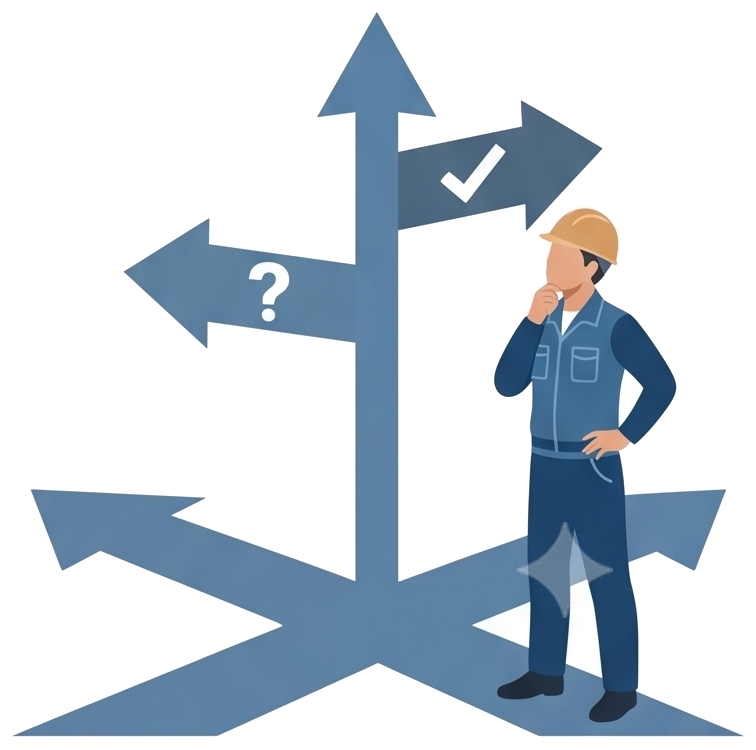
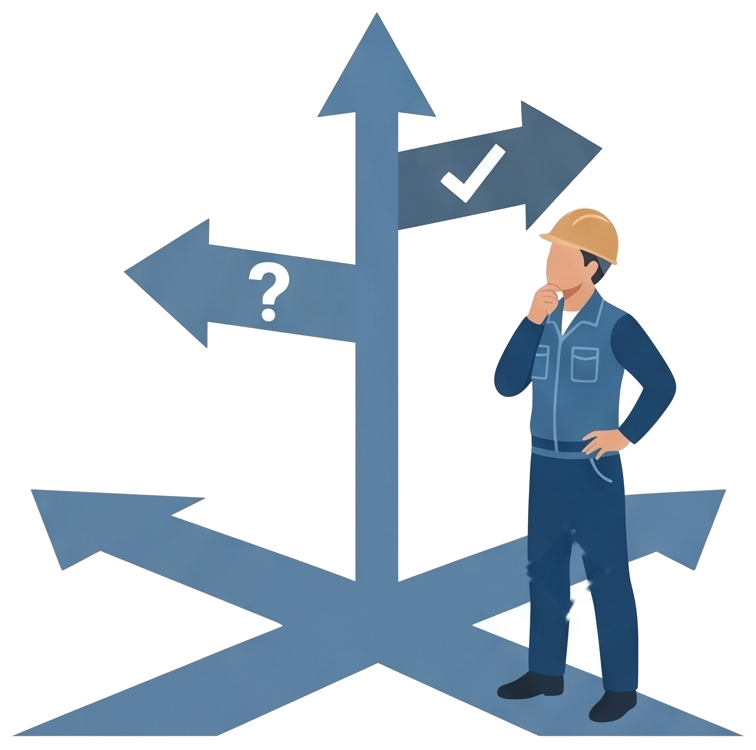
タイ 人・組織マネジメント講座 JA：申込フォーム公開・ボタンを「受講申し込み」に統一、メール申込追加、イラスト差し替え、分かれ道イラストの透かし除去
Claude-Session: https://claude.ai/code/session_01SpWZvXgkwG21DrLjWGbDtJ

Changed region(s): [[0.6693, 0.7053, 0.8214, 0.828]]

diff --git a/2026/thailand/training/management-essential/ja/index.html b/2026/thailand/training/management-essential/ja/index.html
@@ -15,7 +15,7 @@
     <link rel="icon" href="/assets/logos/symbol.svg" type="image/svg+xml">
     <link href="https://fonts.googleapis.com/css2?family=Noto+Sans+JP:wght@400;500;700;900&display=swap" rel="stylesheet">
     <!-- LP Config: 日程・料金・フォームURL等の変更はこのファイルを編集してください -->
-    <script src="../config_ja.js?v=20260923"></script>
+    <script src="../config_ja.js?v=20260929"></script>
     <style>
         /* =========================================
            Variables & Theme Settings
@@ -1404,7 +1404,7 @@
                     <span class="time">受付時間：平日 9:00〜18:00（シンガポール時間）</span>
                 </div>
                 <div class="header-buttons">
-                    <a href="#contact" class="btn-entry-header">お問い合わせ・先行案内</a>
+                    <a href="https://docs.google.com/forms/d/e/1FAIpQLScytGO-oMZk55iRuZElI5PICs89a6eSsmoJdaQi3e7tQP9Aqg/viewform" target="_blank" rel="noopener" class="btn-entry-header">受講申し込み</a>
                 </div>
                 <button class="hamburger-btn" id="hamburger-btn" aria-label="メニューを開く">
                     <span></span><span></span><span></span>
@@ -1412,7 +1412,7 @@
             </div>
         </div>
         <div class="header-btn-bar">
-            <a href="#contact" class="btn-bar-entry">お問い合わせ・先行案内のお申し込み</a>
+            <a href="https://docs.google.com/forms/d/e/1FAIpQLScytGO-oMZk55iRuZElI5PICs89a6eSsmoJdaQi3e7tQP9Aqg/viewform" target="_blank" rel="noopener" class="btn-bar-entry">受講申し込み</a>
         </div>
         <nav class="header-bottom" id="mobile-nav">
             <div class="container nav-container">
@@ -1447,7 +1447,7 @@
                     <div class="hero-fact"><span class="k">SCHEDULE</span><span class="v">2026年11月12日開始<br>定員15名</span></div>
                     <div class="hero-fact fact-fee"><span class="k">TUITION</span><span class="v">SGD 700<span class="sub">1名・全3回／参考 約 THB 18,300</span></span></div>
                 </div>
-                <a href="#contact" class="btn-cta">お問い合わせ・先行案内のお申し込み</a>
+                <a href="https://docs.google.com/forms/d/e/1FAIpQLScytGO-oMZk55iRuZElI5PICs89a6eSsmoJdaQi3e7tQP9Aqg/viewform" target="_blank" rel="noopener" class="btn-cta">受講申し込み</a>
             </div>
 
             <div class="hero-visual-content reveal-right">
@@ -1473,7 +1473,7 @@
                 <span class="en">Purpose</span>
                 目的は、あなたが変わることではありません。<br>組織が、自ら動くようになることです。
             </h2>
-            <div class="sec-ill reveal delay-100"><img src="/assets/illustrations/il_feedback_and_growth.png" alt="自ら育つ組織" loading="lazy"></div>
+            <div class="sec-ill reveal delay-100"><img src="/assets/illustrations/il_m_team_discussion.png" alt="自ら考え、動くチーム" loading="lazy"></div>
 
             <div class="purpose-stack reveal delay-100">
                 <div class="purpose-tier t3">
@@ -1693,7 +1693,7 @@
         <div class="container">
             <div class="cta-banner-inner reveal">
                 <h2>限られた任期の中で、<br>チームの自律化に着手しませんか</h2>
-                <a href="#contact" class="btn-cta">お問い合わせ・先行案内のお申し込み</a>
+                <a href="https://docs.google.com/forms/d/e/1FAIpQLScytGO-oMZk55iRuZElI5PICs89a6eSsmoJdaQi3e7tQP9Aqg/viewform" target="_blank" rel="noopener" class="btn-cta">受講申し込み</a>
             </div>
         </div>
     </div>
@@ -1789,7 +1789,7 @@
                 <span class="en">Positioning</span>
                 なぜ「エッセンシャル編」なのか
             </h2>
-            <div class="sec-ill reveal delay-100"><img src="/assets/illustrations/il_decision_crossroads.png" alt="最初に押さえるべきエッセンス" loading="lazy"></div>
+            <div class="sec-ill reveal delay-100"><img src="/assets/illustrations/il_decision_crossroads.png?v=20260929" alt="最初に押さえるべきエッセンス" loading="lazy"></div>
             <p class="reveal delay-100" style="text-align: center; color: var(--text-muted); font-size: 1rem; max-width: 820px; margin: 0 auto; line-height: 1.95;">
                 現地でのマネジメントは、3回で語り尽くせるものではありません。本講座は、日本人マネジメント層が現地で最初に押さえるべきエッセンスを、全3回に凝縮したものです。<span class="mk">「まず、これだけは外してはいけない」</span>という範囲を、知識ではなく実践のレベルまで持っていくことを目的としています。
             </p>
@@ -2030,7 +2030,7 @@
                 <span class="en">Practice Format</span>
                 学ぶだけでは終わりません。<br>変化の兆しをつかむところまで。
             </h2>
-            <div class="sec-ill dark reveal delay-100"><img src="/assets/illustrations/il_m_team_discussion.png" alt="学びを職場で実践する" loading="lazy"></div>
+            <div class="sec-ill dark reveal delay-100"><img src="/assets/illustrations/il_m_dialogue_meeting2.png" alt="学びを職場で実践する" loading="lazy"></div>
             <p class="reveal" style="text-align: center; color: rgba(255,255,255,.8); font-size: 1rem; line-height: 1.9;">
                 本講座の特徴は、3回の講義を受けて終わることではありません。<br>
                 各回の間に、実際の職場で、実在する部下に対して実践します。
@@ -2269,9 +2269,9 @@
             </p>
 
             <div class="tbd-box reveal delay-200" style="margin-top:26px;">
-                <b>お申し込みフォームは準備中です</b>
-                <p style="margin-bottom:16px">お申し込みフォームの公開までは、Eメールにて受け付けております。下記ボタンからお問い合わせ・お申し込みください。</p>
-                <a href="#contact" class="btn-cta">お問い合わせ・先行案内のお申し込み</a>
+                <b>お申し込み受付中</b>
+                <p style="margin-bottom:16px">申込締切は2026年10月29日（木）です。1名からお申し込みいただけます。</p>
+                <a href="https://docs.google.com/forms/d/e/1FAIpQLScytGO-oMZk55iRuZElI5PICs89a6eSsmoJdaQi3e7tQP9Aqg/viewform" target="_blank" rel="noopener" class="btn-cta">受講申し込み</a>
             </div>
         </div>
     </section>
@@ -2416,7 +2416,7 @@
                 </details>
                 <details class="faq-item">
                     <summary class="faq-q">Q 開催日程はいつですか／問い合わせ先はどこですか？</summary>
-                    <div class="faq-a">確定しています。2026年11月12日（木）・11月26日（木）・12月8日（火）、いずれも14:00〜17:00（タイ時間）の全3回です。申込締切は2026年10月29日（木）です。お申し込みフォームは準備中のため、当面はEメールにて受け付けております。
+                    <div class="faq-a">確定しています。2026年11月12日（木）・11月26日（木）・12月8日（火）、いずれも14:00〜17:00（タイ時間）の全3回です。申込締切は2026年10月29日（木）です。お申し込みは、本ページの「受講申し込み」ボタンからお願いいたします。
 【問い合わせ】support@ws-partners.com.sg</div>
                 </details>
             </div>
@@ -2500,14 +2500,14 @@
         <div class="container">
             <h2 class="sec-title reveal">
                 <span class="en">Contact</span>
-                開催のご案内・お問い合わせ
+                お申し込み・お問い合わせ
             </h2>
 
             <div class="reveal delay-100" style="max-width: 760px; margin: 0 auto;">
                 <div class="tbd-box" style="margin-bottom: 28px;">
-                    <b>お申し込みフォームは準備中です</b>
-                    <p style="margin-bottom:16px">お申し込みフォームの公開までは、Eメールにて受け付けております。下記ボタンを押すと、必要事項の入力欄があらかじめ入ったメールが立ち上がります。ご記入のうえ送信してください。</p>
-                    <a href="mailto:support@ws-partners.com.sg?cc=wsp-sales%40ws-partners.com.sg%3Bkantaya%40ws-partners.com.sg%3Bkhia%40ws-partners.com.sg&subject=%E3%80%90%E3%81%8A%E5%95%8F%E3%81%84%E5%90%88%E3%82%8F%E3%81%9B%E3%80%91%E4%BA%BA%E3%83%BB%E7%B5%84%E7%B9%94%E3%83%9E%E3%83%8D%E3%82%B8%E3%83%A1%E3%83%B3%E3%83%88%E8%AC%9B%E5%BA%A7%20%E3%82%A8%E3%83%83%E3%82%BB%E3%83%B3%E3%82%B7%E3%83%A3%E3%83%AB%E7%B7%A8%EF%BC%88%E3%82%BF%E3%82%A4%E3%83%BB%E5%85%A83%E5%9B%9E%EF%BC%89&body=%E2%96%BC%E4%BB%A5%E4%B8%8B%E3%81%AE%E9%A0%85%E7%9B%AE%E3%82%92%E3%81%94%E8%A8%98%E5%85%A5%E3%81%AE%E3%81%86%E3%81%88%E3%80%81%E3%81%93%E3%81%AE%E3%83%A1%E3%83%BC%E3%83%AB%E3%82%92%E9%80%81%E4%BF%A1%E3%81%97%E3%81%A6%E3%81%8F%E3%81%A0%E3%81%95%E3%81%84%E3%80%82%0A%E2%80%BB%E3%81%AF%E5%BF%85%E9%A0%88%E9%A0%85%E7%9B%AE%E3%81%A7%E3%81%99%E3%80%82%0A--------------------%0A%E8%B2%B4%E7%A4%BE%E5%90%8D%20%E2%80%BB%EF%BC%9A%0A%0A%E7%8F%BE%E5%9C%B0%E6%B3%95%E4%BA%BA%E3%81%AE%E5%BE%93%E6%A5%AD%E5%93%A1%E6%95%B0%20%E2%80%BB%EF%BC%9A%0A%E3%80%80%E2%96%A1%201%E3%80%9C10%E5%90%8D%0A%E3%80%80%E2%96%A1%2011%E3%80%9C30%E5%90%8D%0A%E3%80%80%E2%96%A1%2031%E3%80%9C100%E5%90%8D%0A%E3%80%80%E2%96%A1%20101%E3%80%9C200%E5%90%8D%0A%E3%80%80%E2%96%A1%20201%E3%80%9C500%E5%90%8D%0A%E3%80%80%E2%96%A1%20501%E3%80%9C1%2C000%E5%90%8D%0A%E3%80%80%E2%96%A1%201%2C001%E5%90%8D%E4%BB%A5%E4%B8%8A%0A%0A%E3%81%8A%E5%90%8D%E5%89%8D%20%E2%80%BB%EF%BC%9A%0A%0A%E6%89%80%E5%B1%9E%E9%83%A8%E7%BD%B2%20%E2%80%BB%EF%BC%9A%0A%0A%E5%BD%B9%E8%81%B7%20%E2%80%BB%EF%BC%9A%0A%0A%E9%9B%BB%E8%A9%B1%E7%95%AA%E5%8F%B7%20%E2%80%BB%EF%BC%9A%0A%E3%80%80%E2%80%BB%E3%83%8F%E3%82%A4%E3%83%95%E3%83%B3%E3%82%92%E5%85%A5%E3%82%8C%E3%81%9A%E6%95%B0%E5%AD%97%E3%81%A0%E3%81%91%E3%81%94%E8%A8%98%E5%85%A5%E3%81%8F%E3%81%A0%E3%81%95%E3%81%84%0A%0AE%E3%83%A1%E3%83%BC%E3%83%AB%20%E2%80%BB%EF%BC%9A%0A%0A%E3%81%94%E8%B5%B4%E4%BB%BB%E3%81%8B%E3%82%89%E3%81%AE%E5%B9%B4%E6%95%B0%20%E2%80%BB%EF%BC%9A%0A%E3%80%80%E2%96%A1%20%E7%9D%80%E4%BB%BB%E5%89%8D%E3%83%BB%E7%9D%80%E4%BB%BB%E7%9B%B4%E5%BE%8C%0A%E3%80%80%E2%96%A1%201%E5%B9%B4%E6%9C%AA%E6%BA%80%0A%E3%80%80%E2%96%A1%201%E3%80%9C3%E5%B9%B4%0A%E3%80%80%E2%96%A1%203%E5%B9%B4%E4%BB%A5%E4%B8%8A%0A%E3%80%80%E2%96%A1%20%E7%8F%BE%E5%9C%B0%E6%8E%A1%E7%94%A8%E3%81%AE%E6%97%A5%E6%9C%AC%E4%BA%BA%E7%A4%BE%E5%93%A1%0A%0A%E9%83%A8%E4%B8%8B%EF%BC%88%E7%8F%BE%E5%9C%B0%E7%A4%BE%E5%93%A1%EF%BC%89%E3%81%AE%E4%BA%BA%E6%95%B0%20%E2%80%BB%EF%BC%9A%0A%E3%80%80%E2%96%A1%201%E3%80%9C3%E5%90%8D%0A%E3%80%80%E2%96%A1%204%E3%80%9C10%E5%90%8D%0A%E3%80%80%E2%96%A1%2011%E5%90%8D%E4%BB%A5%E4%B8%8A%0A%0A%E3%81%94%E7%94%A8%E4%BB%B6%20%E2%80%BB%EF%BC%9A%0A%E3%80%80%E2%96%A1%20%E5%85%88%E8%A1%8C%E6%A1%88%E5%86%85%E3%83%BB%E8%A9%B3%E7%B4%B0%E8%B3%87%E6%96%99%E3%82%92%E5%B8%8C%E6%9C%9B%E3%81%99%E3%82%8B%0A%E3%80%80%E2%96%A1%20%E5%8F%97%E8%AC%9B%E3%82%92%E7%94%B3%E3%81%97%E8%BE%BC%E3%81%BF%E3%81%9F%E3%81%84%0A%E3%80%80%E2%96%A1%20%E5%80%8B%E7%A4%BE%E5%88%A5%EF%BC%88%E8%87%AA%E7%A4%BE%E3%81%AE%E3%81%BF%EF%BC%89%E3%81%A7%E3%81%AE%E5%AE%9F%E6%96%BD%E3%82%92%E7%9B%B8%E8%AB%87%E3%81%97%E3%81%9F%E3%81%84%0A%E3%80%80%E2%96%A1%20%E3%81%9D%E3%81%AE%E4%BB%96%EF%BC%9A%0A%0A%E6%9C%AC%E8%AC%9B%E5%BA%A7%E3%81%AB%E3%81%A4%E3%81%84%E3%81%A6%E3%81%A9%E3%81%93%E3%81%A7%E7%9F%A5%E3%82%8A%E3%81%BE%E3%81%97%E3%81%9F%E3%81%8B%3F%20%E2%80%BB%EF%BC%9A%0A%E3%80%80%E2%96%A1%20WS%20PARTNERS%E3%81%8B%E3%82%89%E3%81%AEE%E3%83%A1%E3%83%BC%E3%83%AB%0A%E3%80%80%E2%96%A1%20%E9%80%B1%E5%88%8AWISE%0A%E3%80%80%E2%96%A1%20%E3%83%91%E3%83%BC%E3%82%BD%E3%83%8D%E3%83%AB%E3%82%B3%E3%83%B3%E3%82%B5%E3%83%AB%E3%82%BF%E3%83%B3%E3%83%88%0A%E3%80%80%E2%96%A1%20NNA%0A%E3%80%80%E2%96%A1%20Google%E3%81%AA%E3%81%A9%E3%81%AE%E6%A4%9C%E7%B4%A2%E3%82%A8%E3%83%B3%E3%82%B8%E3%83%B3%0A%E3%80%80%E2%96%A1%20%E7%A4%BE%E5%A4%96%E3%81%AE%E5%88%A5%E3%81%AE%E6%96%B9%E3%81%8B%E3%82%89%E3%81%AE%E6%A1%88%E5%86%85%E3%83%BB%E7%B4%B9%E4%BB%8B%0A%E3%80%80%E2%96%A1%20%E3%81%9D%E3%81%AE%E4%BB%96%EF%BC%9A%0A%0A%E3%82%AD%E3%83%A3%E3%83%B3%E3%82%BB%E3%83%AB%E8%A6%8F%E5%AE%9A%E3%81%B8%E3%81%AE%E5%90%8C%E6%84%8F%20%E2%80%BB%EF%BC%9A%0A%E3%80%80%E2%96%A1%20%E5%90%8C%E6%84%8F%E3%81%97%E3%81%BE%E3%81%99%0A%0A%E3%80%90%E3%81%8A%E7%9F%A5%E3%82%89%E3%81%9B%E9%85%8D%E4%BF%A1%E3%81%AB%E3%81%A4%E3%81%84%E3%81%A6%E3%80%91%0A%E3%80%80%E4%B8%8D%E8%A6%81%E3%81%AE%E5%A0%B4%E5%90%88%E3%81%AE%E3%81%BF%E3%80%8C%E4%B8%8D%E8%A6%81%E3%80%8D%E3%81%A8%E3%81%94%E8%A8%98%E5%85%A5%E3%81%8F%E3%81%A0%E3%81%95%E3%81%84%EF%BC%9A%0A%0A--------------------" class="btn-cta" style="font-size: 1rem;">メールで問い合わせる・申し込む</a>
+                    <b>お申し込み受付中</b>
+                    <p style="margin-bottom:16px">下記ボタンよりお申し込みフォームへお進みください。フォームが開けない場合は、このページ下部の「メールで申し込む」もご利用いただけます。</p>
+                    <a href="https://docs.google.com/forms/d/e/1FAIpQLScytGO-oMZk55iRuZElI5PICs89a6eSsmoJdaQi3e7tQP9Aqg/viewform" target="_blank" rel="noopener" class="btn-cta">受講申し込み</a>
                 </div>
 
                 <div class="info-box">
@@ -2521,6 +2521,9 @@
                         </ul>
                     </div>
                     <p style="font-size: 0.9rem; margin-top: 15px;">個社別（貴社のみ）での実施のご相談についても承ります。</p>
+                    <p style="text-align:center; margin-top: 22px;">
+                        <a href="mailto:support@ws-partners.com.sg?cc=wsp-sales@ws-partners.com.sg%3Bkantaya@ws-partners.com.sg%3Bkhia@ws-partners.com.sg&subject=%E3%81%8A%E7%94%B3%E3%81%97%E8%BE%BC%E3%81%BF%20-%20%E3%80%90%E3%80%8E%E4%BA%BA%E3%83%BB%E7%B5%84%E7%B9%94%E3%83%9E%E3%83%8D%E3%82%B8%E3%83%A1%E3%83%B3%E3%83%88%E8%AC%9B%E5%BA%A7%20%E3%82%A8%E3%83%83%E3%82%BB%E3%83%B3%E3%82%B7%E3%83%A3%E3%83%AB%E7%B7%A8%E3%80%8F%E3%82%BB%E3%83%9F%E3%83%8A%E3%83%BC%EF%BC%8F%E7%A0%94%E4%BF%AE%20%EF%BC%88%E3%82%BF%E3%82%A4%EF%BC%89(2026.11)%E3%80%91&body=%E2%96%BC%E4%BB%A5%E4%B8%8B%E3%81%AE%E9%A0%85%E7%9B%AE%E3%82%92%E3%81%94%E8%A8%98%E5%85%A5%E3%81%AE%E4%B8%8A%E3%80%81%E3%81%93%E3%81%AE%E3%83%A1%E3%83%BC%E3%83%AB%E3%82%92%E9%80%81%E4%BF%A1%E3%81%97%E3%81%A6%E3%81%8F%E3%81%A0%E3%81%95%E3%81%84%E3%80%82%0A%E2%80%BB%E3%81%AF%E5%BF%85%E9%A0%88%E9%A0%85%E7%9B%AE%E3%81%A7%E3%81%99%E3%80%82%0A--------------------%0A%E4%BC%9A%E7%A4%BE%E5%90%8D%20%E2%80%BB%EF%BC%9A%0A%0A%E7%8F%BE%E5%9C%B0%E6%B3%95%E4%BA%BA%E3%81%AE%E5%BE%93%E6%A5%AD%E5%93%A1%E6%95%B0%20%E2%80%BB%EF%BC%9A%0A%E3%80%80%E2%96%A1%201%EF%BD%9E10%E5%90%8D%0A%E3%80%80%E2%96%A1%2011%EF%BD%9E30%E5%90%8D%0A%E3%80%80%E2%96%A1%2031%EF%BD%9E100%E5%90%8D%0A%E3%80%80%E2%96%A1%20101%EF%BD%9E200%E5%90%8D%0A%E3%80%80%E2%96%A1%20201%EF%BD%9E500%E5%90%8D%0A%E3%80%80%E2%96%A1%20501%EF%BD%9E1000%E5%90%8D%0A%E3%80%80%E2%96%A1%201001%E5%90%8D%E4%BB%A5%E4%B8%8A%0A%0A%E5%8F%97%E8%AC%9B%E8%80%85%E3%81%AE%E3%81%8A%E5%90%8D%E5%89%8D%20%E2%80%BB%EF%BC%9A%0A%0A%E5%8F%97%E8%AC%9B%E8%80%85%E3%81%AE%E6%89%80%E5%B1%9E%E9%83%A8%E7%BD%B2%20%E2%80%BB%EF%BC%9A%0A%0A%E5%8F%97%E8%AC%9B%E8%80%85%E3%81%AE%E5%BD%B9%E8%81%B7%20%E2%80%BB%EF%BC%9A%0A%E3%80%80%E2%96%A1%20Managing%20Director%EF%BC%88%E7%8F%BE%E5%9C%B0%E6%B3%95%E4%BA%BA%E7%A4%BE%E9%95%B7%EF%BC%89%0A%E3%80%80%E2%96%A1%20Director%EF%BC%88%E5%8F%96%E7%B7%A0%E5%BD%B9%E3%82%AF%E3%83%A9%E3%82%B9%EF%BC%89%0A%E3%80%80%E2%96%A1%20General%20Manager%EF%BC%88%E9%83%A8%E9%95%B7%E3%82%AF%E3%83%A9%E3%82%B9%EF%BC%89%0A%E3%80%80%E2%96%A1%20Senior%20Manager%EF%BC%88%E6%AC%A1%E9%95%B7%E3%83%BB%E9%83%A8%E9%96%80%E8%B2%AC%E4%BB%BB%E8%80%85%E3%82%AF%E3%83%A9%E3%82%B9%EF%BC%89%0A%E3%80%80%E2%96%A1%20Manager%EF%BC%88%E8%AA%B2%E9%95%B7%E3%82%AF%E3%83%A9%E3%82%B9%EF%BC%89%0A%E3%80%80%E2%96%A1%20%E3%81%9D%E3%81%AE%E4%BB%96%EF%BC%9A%0A%0A%E3%82%BF%E3%82%A4%E3%81%A7%E3%81%AE%E9%A7%90%E5%9C%A8%E6%9C%9F%E9%96%93%EF%BC%88%E9%80%9A%E7%AE%97%EF%BC%89%20%E2%80%BB%EF%BC%9A%0A%E3%80%80%E2%96%A1%20%E7%9D%80%E4%BB%BB%E5%89%8D%EF%BC%88%E7%9D%80%E4%BB%BB%E4%BA%88%E5%AE%9A%EF%BC%89%0A%E3%80%80%E2%96%A1%201%E5%B9%B4%E6%9C%AA%E6%BA%80%0A%E3%80%80%E2%96%A1%201%E3%80%9C3%E5%B9%B4%0A%E3%80%80%E2%96%A1%203%E3%80%9C5%E5%B9%B4%0A%E3%80%80%E2%96%A1%205%E5%B9%B4%E4%BB%A5%E4%B8%8A%0A%0A%E5%8F%97%E8%AC%9B%E8%80%85%E3%81%AE%E9%9B%BB%E8%A9%B1%E7%95%AA%E5%8F%B7%20%E2%80%BB%EF%BC%9A%0A%E3%80%80%E2%80%BB%E3%83%8F%E3%82%A4%E3%83%95%E3%83%B3%E3%82%92%E5%85%A5%E3%82%8C%E3%81%9A%E6%95%B0%E5%AD%97%E3%81%A0%E3%81%91%E3%81%94%E8%A8%98%E5%85%A5%E3%81%8F%E3%81%A0%E3%81%95%E3%81%84%0A%0A%E5%8F%97%E8%AC%9B%E8%80%85%E3%81%AEE%E3%83%A1%E3%83%BC%E3%83%AB%20%E2%80%BB%EF%BC%9A%0A%E3%80%80%E2%80%BB%E5%8F%97%E8%AC%9B%E7%94%A8%E3%81%AEZoom%E3%83%AA%E3%83%B3%E3%82%AF%E3%81%AA%E3%81%A9%E3%80%81%E8%AC%9B%E5%BA%A7%E3%81%AE%E3%81%94%E6%A1%88%E5%86%85%E3%81%AF%E3%81%93%E3%81%A1%E3%82%89%E3%81%AE%E3%82%A2%E3%83%89%E3%83%AC%E3%82%B9%E5%AE%9B%E3%81%AB%E3%81%8A%E9%80%81%E3%82%8A%E3%81%97%E3%81%BE%E3%81%99%E3%80%82%0A%0A(%E4%BB%BB%E6%84%8F)%E3%81%8A%E7%94%B3%E3%81%97%E8%BE%BC%E3%81%BF%E3%81%94%E6%8B%85%E5%BD%93%E8%80%85%E3%81%AE%E3%81%8A%E5%90%8D%E5%89%8D%EF%BC%9A%0A%E3%80%80%E2%80%BB%E5%8F%97%E8%AC%9B%E8%80%85%E3%81%94%E6%9C%AC%E4%BA%BA%E4%BB%A5%E5%A4%96%E3%81%AE%E6%96%B9%EF%BC%88%E4%BA%BA%E4%BA%8B%E3%83%BB%E7%B7%8F%E5%8B%99%E3%81%AE%E3%81%94%E6%8B%85%E5%BD%93%E8%80%85%E6%A7%98%E3%81%AA%E3%81%A9%EF%BC%89%E3%81%8C%E3%81%8A%E7%94%B3%E3%81%97%E8%BE%BC%E3%81%BF%E3%83%BB%E3%81%94%E8%AB%8B%E6%B1%82%E3%81%AE%E7%AA%93%E5%8F%A3%E3%81%A8%E3%81%AA%E3%82%8B%E5%A0%B4%E5%90%88%E3%81%AE%E3%81%BF%E3%81%94%E8%A8%98%E5%85%A5%E3%81%8F%E3%81%A0%E3%81%95%E3%81%84%E3%80%82%0A%0A(%E4%BB%BB%E6%84%8F)%E3%81%8A%E7%94%B3%E3%81%97%E8%BE%BC%E3%81%BF%E3%81%94%E6%8B%85%E5%BD%93%E8%80%85%E3%81%AEE%E3%83%A1%E3%83%BC%E3%83%AB%EF%BC%9A%0A%E3%80%80%E2%80%BB%E3%81%94%E8%A8%98%E5%85%A5%E3%81%84%E3%81%9F%E3%81%A0%E3%81%84%E3%81%9F%E5%A0%B4%E5%90%88%E3%80%81%E3%81%94%E8%AB%8B%E6%B1%82%E7%AD%89%E3%81%AE%E3%81%94%E9%80%A3%E7%B5%A1%E3%81%AF%E3%81%93%E3%81%A1%E3%82%89%E3%81%AE%E3%82%A2%E3%83%89%E3%83%AC%E3%82%B9%E5%AE%9B%E3%81%AB%E5%B7%AE%E3%81%97%E4%B8%8A%E3%81%92%E3%81%BE%E3%81%99%E3%80%82%0A%0A(%E4%BB%BB%E6%84%8F)%E8%AC%9B%E5%BA%A7%E3%81%A7%E7%89%B9%E3%81%AB%E6%89%B1%E3%81%A3%E3%81%A6%E3%81%BB%E3%81%97%E3%81%84%E3%83%86%E3%83%BC%E3%83%9E%E3%82%84%E3%80%81%E7%8F%BE%E5%9C%A8%E3%81%AE%E3%81%8A%E6%82%A9%E3%81%BF%EF%BC%9A%0A%0A%E6%9C%AC%E8%AC%9B%E5%BA%A7%E3%81%AB%E3%81%A4%E3%81%84%E3%81%A6%E3%81%A9%E3%81%93%E3%81%A7%E7%9F%A5%E3%82%8A%E3%81%BE%E3%81%97%E3%81%9F%E3%81%8B%3F%20%E2%80%BB%EF%BC%9A%0A%E3%80%80%E2%96%A1%20WS%20PARTNERS%E3%81%8B%E3%82%89%E3%81%AEE%E3%83%A1%E3%83%BC%E3%83%AB%0A%E3%80%80%E2%96%A1%20%E9%80%B1%E5%88%8AWISE%0A%E3%80%80%E2%96%A1%20%E3%83%91%E3%83%BC%E3%82%BD%E3%83%8D%E3%83%AB%E3%82%B3%E3%83%B3%E3%82%B5%E3%83%AB%E3%82%BF%E3%83%B3%E3%83%88%0A%E3%80%80%E2%96%A1%20NNA%0A%E3%80%80%E2%96%A1%20Google%E3%81%AA%E3%81%A9%E3%81%AE%E6%A4%9C%E7%B4%A2%E3%82%A8%E3%83%B3%E3%82%B8%E3%83%B3%0A%E3%80%80%E2%96%A1%20%E7%A4%BE%E5%86%85%E3%83%BB%E7%A4%BE%E5%A4%96%E3%81%AE%E6%96%B9%E3%81%8B%E3%82%89%E3%81%AE%E6%A1%88%E5%86%85%E3%83%BB%E7%B4%B9%E4%BB%8B%0A%E3%80%80%E2%96%A1%20%E3%81%9D%E3%81%AE%E4%BB%96%EF%BC%9A%0A%0A%E3%82%AD%E3%83%A3%E3%83%B3%E3%82%BB%E3%83%AB%E8%A6%8F%E5%AE%9A%E3%81%B8%E3%81%AE%E5%90%8C%E6%84%8F%20%E2%80%BB%EF%BC%9A%0A%E3%80%80%E2%96%A1%20%E5%90%8C%E6%84%8F%E3%81%97%E3%81%BE%E3%81%99%0A%0A%E3%80%90%E3%81%8A%E7%9F%A5%E3%82%89%E3%81%9B%E9%85%8D%E4%BF%A1%E3%81%AB%E3%81%A4%E3%81%84%E3%81%A6%E3%80%91%0A%E3%80%80%E4%B8%8D%E8%A6%81%E3%81%AE%E5%A0%B4%E5%90%88%E3%81%AE%E3%81%BF%E3%80%8C%E4%B8%8D%E8%A6%81%E3%80%8D%E3%81%A8%E3%81%94%E8%A8%98%E5%85%A5%E3%81%8F%E3%81%A0%E3%81%95%E3%81%84%EF%BC%9A%0A%0A--------------------" class="btn-cta" style="font-size: 1rem;">メールで申し込む</a>
+                    </p>
                 </div>
             </div>
         </div>
@@ -2581,24 +2584,6 @@
                         hamburgerBtn.classList.remove('active');
                         mobileNav.classList.remove('menu-open');
                     });
-                });
-            }
-
-            // config_ja.js に forms.google_url が入ったら申込導線をフォームへ差し替える
-            // （フォームを作成したタイミングで自動的に有効化される）
-            var _f = window.LP_CONFIG && window.LP_CONFIG.forms;
-            if (_f && _f.google_url && _f.google_url.indexOf('※') === -1 && _f.google_url !== '') {
-                var direct = _f.google_url.replace('?embedded=true&', '?').replace('?embedded=true', '');
-                document.querySelectorAll('.tbd-box').forEach(function(box) {
-                    if (box.textContent.indexOf('お申し込みフォームは準備中') !== -1) {
-                        box.innerHTML = '<b>お申し込み受付中</b>' +
-                          '<p style="margin-bottom:16px">下記ボタンより、お申し込みフォームへお進みください。1名からお申し込みいただけます。</p>' +
-                          '<a href="' + direct + '" target="_blank" rel="noopener" class="btn-cta">受講申し込み</a>';
-                    }
-                });
-                document.querySelectorAll('.btn-entry-header, .btn-bar-entry').forEach(function(a) {
-                    a.setAttribute('href', direct); a.setAttribute('target', '_blank'); a.setAttribute('rel', 'noopener');
-                    a.textContent = '受講申し込み';
                 });
             }
         });

diff --git a/2026/thailand/training/management-essential/config_ja.js b/2026/thailand/training/management-essential/config_ja.js
@@ -35,7 +35,7 @@ window.LP_CONFIG = {
   header: {
     phone: '+65-6978-4066',
     hours: '受付時間：平日 9:00～18:00（シンガポール時間）',
-    cta_text: 'お問い合わせ・先行案内のお申し込み'
+    cta_text: '受講申し込み'
   },
 
   hero: {
@@ -77,20 +77,16 @@ window.LP_CONFIG = {
   /* ------------------------------------------------------------------
      申込フォーム
      ------------------------------------------------------------------
-     ⚠ 未作成。formbuilder_kokai.js（公開型研修）で単言語（日本語）版の
-        フォーム＋GASを生成し、実行ログの値を google_url に貼る。
-        google_url に値が入ると、ja/index.html 側のJSが
-        「準備中」ボックスとヘッダーCTAを自動的に申込ボタンへ差し替える。
-        差し替えまでは mailto_href（下記・index.html にもハードコード）が
-        申込・問い合わせの受け皿。両方を同時に更新すること。
+     2026-09-29 作成済み（GAS: WSP-work/gas/me-2611・タブ 2611-ME-TH）。
+     申込導線は ja/index.html に直書き。mailto_href は index.html の「メールで申し込む」と同じ値。
      ------------------------------------------------------------------ */
   // スプレッドシートのタブ名（予定）: 2611-ME-TH
   forms: {
-    google_url:       '',
+    google_url:       'https://docs.google.com/forms/d/e/1FAIpQLScytGO-oMZk55iRuZElI5PICs89a6eSsmoJdaQi3e7tQP9Aqg/viewform?embedded=true',
     hubspot_form_id:  '',
     hubspot_region:   'na1',
     thank_you_url:    '',
-    mailto_subject:   '【お問い合わせ】人・組織マネジメント講座 エッセンシャル編（タイ・全3回）',
-    mailto_href:      'mailto:support@ws-partners.com.sg?cc=wsp-sales%40ws-partners.com.sg%3Bkantaya%40ws-partners.com.sg%3Bkhia%40ws-partners.com.sg&subject=%E3%80%90%E3%81%8A%E5%95%8F%E3%81%84%E5%90%88%E3%82%8F%E3%81%9B%E3%80%91%E4%BA%BA%E3%83%BB%E7%B5%84%E7%B9%94%E3%83%9E%E3%83%8D%E3%82%B8%E3%83%A1%E3%83%B3%E3%83%88%E8%AC%9B%E5%BA%A7%20%E3%82%A8%E3%83%83%E3%82%BB%E3%83%B3%E3%82%B7%E3%83%A3%E3%83%AB%E7%B7%A8%EF%BC%88%E3%82%BF%E3%82%A4%E3%83%BB%E5%85%A83%E5%9B%9E%EF%BC%89&body=%E2%96%BC%E4%BB%A5%E4%B8%8B%E3%81%AE%E9%A0%85%E7%9B%AE%E3%82%92%E3%81%94%E8%A8%98%E5%85%A5%E3%81%AE%E3%81%86%E3%81%88%E3%80%81%E3%81%93%E3%81%AE%E3%83%A1%E3%83%BC%E3%83%AB%E3%82%92%E9%80%81%E4%BF%A1%E3%81%97%E3%81%A6%E3%81%8F%E3%81%A0%E3%81%95%E3%81%84%E3%80%82%0A%E2%80%BB%E3%81%AF%E5%BF%85%E9%A0%88%E9%A0%85%E7%9B%AE%E3%81%A7%E3%81%99%E3%80%82%0A--------------------%0A%E8%B2%B4%E7%A4%BE%E5%90%8D%20%E2%80%BB%EF%BC%9A%0A%0A%E7%8F%BE%E5%9C%B0%E6%B3%95%E4%BA%BA%E3%81%AE%E5%BE%93%E6%A5%AD%E5%93%A1%E6%95%B0%20%E2%80%BB%EF%BC%9A%0A%E3%80%80%E2%96%A1%201%E3%80%9C10%E5%90%8D%0A%E3%80%80%E2%96%A1%2011%E3%80%9C30%E5%90%8D%0A%E3%80%80%E2%96%A1%2031%E3%80%9C100%E5%90%8D%0A%E3%80%80%E2%96%A1%20101%E3%80%9C200%E5%90%8D%0A%E3%80%80%E2%96%A1%20201%E3%80%9C500%E5%90%8D%0A%E3%80%80%E2%96%A1%20501%E3%80%9C1%2C000%E5%90%8D%0A%E3%80%80%E2%96%A1%201%2C001%E5%90%8D%E4%BB%A5%E4%B8%8A%0A%0A%E3%81%8A%E5%90%8D%E5%89%8D%20%E2%80%BB%EF%BC%9A%0A%0A%E6%89%80%E5%B1%9E%E9%83%A8%E7%BD%B2%20%E2%80%BB%EF%BC%9A%0A%0A%E5%BD%B9%E8%81%B7%20%E2%80%BB%EF%BC%9A%0A%0A%E9%9B%BB%E8%A9%B1%E7%95%AA%E5%8F%B7%20%E2%80%BB%EF%BC%9A%0A%E3%80%80%E2%80%BB%E3%83%8F%E3%82%A4%E3%83%95%E3%83%B3%E3%82%92%E5%85%A5%E3%82%8C%E3%81%9A%E6%95%B0%E5%AD%97%E3%81%A0%E3%81%91%E3%81%94%E8%A8%98%E5%85%A5%E3%81%8F%E3%81%A0%E3%81%95%E3%81%84%0A%0AE%E3%83%A1%E3%83%BC%E3%83%AB%20%E2%80%BB%EF%BC%9A%0A%0A%E3%81%94%E8%B5%B4%E4%BB%BB%E3%81%8B%E3%82%89%E3%81%AE%E5%B9%B4%E6%95%B0%20%E2%80%BB%EF%BC%9A%0A%E3%80%80%E2%96%A1%20%E7%9D%80%E4%BB%BB%E5%89%8D%E3%83%BB%E7%9D%80%E4%BB%BB%E7%9B%B4%E5%BE%8C%0A%E3%80%80%E2%96%A1%201%E5%B9%B4%E6%9C%AA%E6%BA%80%0A%E3%80%80%E2%96%A1%201%E3%80%9C3%E5%B9%B4%0A%E3%80%80%E2%96%A1%203%E5%B9%B4%E4%BB%A5%E4%B8%8A%0A%E3%80%80%E2%96%A1%20%E7%8F%BE%E5%9C%B0%E6%8E%A1%E7%94%A8%E3%81%AE%E6%97%A5%E6%9C%AC%E4%BA%BA%E7%A4%BE%E5%93%A1%0A%0A%E9%83%A8%E4%B8%8B%EF%BC%88%E7%8F%BE%E5%9C%B0%E7%A4%BE%E5%93%A1%EF%BC%89%E3%81%AE%E4%BA%BA%E6%95%B0%20%E2%80%BB%EF%BC%9A%0A%E3%80%80%E2%96%A1%201%E3%80%9C3%E5%90%8D%0A%E3%80%80%E2%96%A1%204%E3%80%9C10%E5%90%8D%0A%E3%80%80%E2%96%A1%2011%E5%90%8D%E4%BB%A5%E4%B8%8A%0A%0A%E3%81%94%E7%94%A8%E4%BB%B6%20%E2%80%BB%EF%BC%9A%0A%E3%80%80%E2%96%A1%20%E5%85%88%E8%A1%8C%E6%A1%88%E5%86%85%E3%83%BB%E8%A9%B3%E7%B4%B0%E8%B3%87%E6%96%99%E3%82%92%E5%B8%8C%E6%9C%9B%E3%81%99%E3%82%8B%0A%E3%80%80%E2%96%A1%20%E5%8F%97%E8%AC%9B%E3%82%92%E7%94%B3%E3%81%97%E8%BE%BC%E3%81%BF%E3%81%9F%E3%81%84%0A%E3%80%80%E2%96%A1%20%E5%80%8B%E7%A4%BE%E5%88%A5%EF%BC%88%E8%87%AA%E7%A4%BE%E3%81%AE%E3%81%BF%EF%BC%89%E3%81%A7%E3%81%AE%E5%AE%9F%E6%96%BD%E3%82%92%E7%9B%B8%E8%AB%87%E3%81%97%E3%81%9F%E3%81%84%0A%E3%80%80%E2%96%A1%20%E3%81%9D%E3%81%AE%E4%BB%96%EF%BC%9A%0A%0A%E6%9C%AC%E8%AC%9B%E5%BA%A7%E3%81%AB%E3%81%A4%E3%81%84%E3%81%A6%E3%81%A9%E3%81%93%E3%81%A7%E7%9F%A5%E3%82%8A%E3%81%BE%E3%81%97%E3%81%9F%E3%81%8B%3F%20%E2%80%BB%EF%BC%9A%0A%E3%80%80%E2%96%A1%20WS%20PARTNERS%E3%81%8B%E3%82%89%E3%81%AEE%E3%83%A1%E3%83%BC%E3%83%AB%0A%E3%80%80%E2%96%A1%20%E9%80%B1%E5%88%8AWISE%0A%E3%80%80%E2%96%A1%20%E3%83%91%E3%83%BC%E3%82%BD%E3%83%8D%E3%83%AB%E3%82%B3%E3%83%B3%E3%82%B5%E3%83%AB%E3%82%BF%E3%83%B3%E3%83%88%0A%E3%80%80%E2%96%A1%20NNA%0A%E3%80%80%E2%96%A1%20Google%E3%81%AA%E3%81%A9%E3%81%AE%E6%A4%9C%E7%B4%A2%E3%82%A8%E3%83%B3%E3%82%B8%E3%83%B3%0A%E3%80%80%E2%96%A1%20%E7%A4%BE%E5%A4%96%E3%81%AE%E5%88%A5%E3%81%AE%E6%96%B9%E3%81%8B%E3%82%89%E3%81%AE%E6%A1%88%E5%86%85%E3%83%BB%E7%B4%B9%E4%BB%8B%0A%E3%80%80%E2%96%A1%20%E3%81%9D%E3%81%AE%E4%BB%96%EF%BC%9A%0A%0A%E3%82%AD%E3%83%A3%E3%83%B3%E3%82%BB%E3%83%AB%E8%A6%8F%E5%AE%9A%E3%81%B8%E3%81%AE%E5%90%8C%E6%84%8F%20%E2%80%BB%EF%BC%9A%0A%E3%80%80%E2%96%A1%20%E5%90%8C%E6%84%8F%E3%81%97%E3%81%BE%E3%81%99%0A%0A%E3%80%90%E3%81%8A%E7%9F%A5%E3%82%89%E3%81%9B%E9%85%8D%E4%BF%A1%E3%81%AB%E3%81%A4%E3%81%84%E3%81%A6%E3%80%91%0A%E3%80%80%E4%B8%8D%E8%A6%81%E3%81%AE%E5%A0%B4%E5%90%88%E3%81%AE%E3%81%BF%E3%80%8C%E4%B8%8D%E8%A6%81%E3%80%8D%E3%81%A8%E3%81%94%E8%A8%98%E5%85%A5%E3%81%8F%E3%81%A0%E3%81%95%E3%81%84%EF%BC%9A%0A%0A--------------------'
+    mailto_subject:   'お申し込み - 【『人・組織マネジメント講座 エッセンシャル編』セミナー／研修 （タイ）(2026.11)】',
+    mailto_href:      'mailto:support@ws-partners.com.sg?cc=wsp-sales@ws-partners.com.sg%3Bkantaya@ws-partners.com.sg%3Bkhia@ws-partners.com.sg&subject=%E3%81%8A%E7%94%B3%E3%81%97%E8%BE%BC%E3%81%BF%20-%20%E3%80%90%E3%80%8E%E4%BA%BA%E3%83%BB%E7%B5%84%E7%B9%94%E3%83%9E%E3%83%8D%E3%82%B8%E3%83%A1%E3%83%B3%E3%83%88%E8%AC%9B%E5%BA%A7%20%E3%82%A8%E3%83%83%E3%82%BB%E3%83%B3%E3%82%B7%E3%83%A3%E3%83%AB%E7%B7%A8%E3%80%8F%E3%82%BB%E3%83%9F%E3%83%8A%E3%83%BC%EF%BC%8F%E7%A0%94%E4%BF%AE%20%EF%BC%88%E3%82%BF%E3%82%A4%EF%BC%89(2026.11)%E3%80%91&body=%E2%96%BC%E4%BB%A5%E4%B8%8B%E3%81%AE%E9%A0%85%E7%9B%AE%E3%82%92%E3%81%94%E8%A8%98%E5%85%A5%E3%81%AE%E4%B8%8A%E3%80%81%E3%81%93%E3%81%AE%E3%83%A1%E3%83%BC%E3%83%AB%E3%82%92%E9%80%81%E4%BF%A1%E3%81%97%E3%81%A6%E3%81%8F%E3%81%A0%E3%81%95%E3%81%84%E3%80%82%0A%E2%80%BB%E3%81%AF%E5%BF%85%E9%A0%88%E9%A0%85%E7%9B%AE%E3%81%A7%E3%81%99%E3%80%82%0A--------------------%0A%E4%BC%9A%E7%A4%BE%E5%90%8D%20%E2%80%BB%EF%BC%9A%0A%0A%E7%8F%BE%E5%9C%B0%E6%B3%95%E4%BA%BA%E3%81%AE%E5%BE%93%E6%A5%AD%E5%93%A1%E6%95%B0%20%E2%80%BB%EF%BC%9A%0A%E3%80%80%E2%96%A1%201%EF%BD%9E10%E5%90%8D%0A%E3%80%80%E2%96%A1%2011%EF%BD%9E30%E5%90%8D%0A%E3%80%80%E2%96%A1%2031%EF%BD%9E100%E5%90%8D%0A%E3%80%80%E2%96%A1%20101%EF%BD%9E200%E5%90%8D%0A%E3%80%80%E2%96%A1%20201%EF%BD%9E500%E5%90%8D%0A%E3%80%80%E2%96%A1%20501%EF%BD%9E1000%E5%90%8D%0A%E3%80%80%E2%96%A1%201001%E5%90%8D%E4%BB%A5%E4%B8%8A%0A%0A%E5%8F%97%E8%AC%9B%E8%80%85%E3%81%AE%E3%81%8A%E5%90%8D%E5%89%8D%20%E2%80%BB%EF%BC%9A%0A%0A%E5%8F%97%E8%AC%9B%E8%80%85%E3%81%AE%E6%89%80%E5%B1%9E%E9%83%A8%E7%BD%B2%20%E2%80%BB%EF%BC%9A%0A%0A%E5%8F%97%E8%AC%9B%E8%80%85%E3%81%AE%E5%BD%B9%E8%81%B7%20%E2%80%BB%EF%BC%9A%0A%E3%80%80%E2%96%A1%20Managing%20Director%EF%BC%88%E7%8F%BE%E5%9C%B0%E6%B3%95%E4%BA%BA%E7%A4%BE%E9%95%B7%EF%BC%89%0A%E3%80%80%E2%96%A1%20Director%EF%BC%88%E5%8F%96%E7%B7%A0%E5%BD%B9%E3%82%AF%E3%83%A9%E3%82%B9%EF%BC%89%0A%E3%80%80%E2%96%A1%20General%20Manager%EF%BC%88%E9%83%A8%E9%95%B7%E3%82%AF%E3%83%A9%E3%82%B9%EF%BC%89%0A%E3%80%80%E2%96%A1%20Senior%20Manager%EF%BC%88%E6%AC%A1%E9%95%B7%E3%83%BB%E9%83%A8%E9%96%80%E8%B2%AC%E4%BB%BB%E8%80%85%E3%82%AF%E3%83%A9%E3%82%B9%EF%BC%89%0A%E3%80%80%E2%96%A1%20Manager%EF%BC%88%E8%AA%B2%E9%95%B7%E3%82%AF%E3%83%A9%E3%82%B9%EF%BC%89%0A%E3%80%80%E2%96%A1%20%E3%81%9D%E3%81%AE%E4%BB%96%EF%BC%9A%0A%0A%E3%82%BF%E3%82%A4%E3%81%A7%E3%81%AE%E9%A7%90%E5%9C%A8%E6%9C%9F%E9%96%93%EF%BC%88%E9%80%9A%E7%AE%97%EF%BC%89%20%E2%80%BB%EF%BC%9A%0A%E3%80%80%E2%96%A1%20%E7%9D%80%E4%BB%BB%E5%89%8D%EF%BC%88%E7%9D%80%E4%BB%BB%E4%BA%88%E5%AE%9A%EF%BC%89%0A%E3%80%80%E2%96%A1%201%E5%B9%B4%E6%9C%AA%E6%BA%80%0A%E3%80%80%E2%96%A1%201%E3%80%9C3%E5%B9%B4%0A%E3%80%80%E2%96%A1%203%E3%80%9C5%E5%B9%B4%0A%E3%80%80%E2%96%A1%205%E5%B9%B4%E4%BB%A5%E4%B8%8A%0A%0A%E5%8F%97%E8%AC%9B%E8%80%85%E3%81%AE%E9%9B%BB%E8%A9%B1%E7%95%AA%E5%8F%B7%20%E2%80%BB%EF%BC%9A%0A%E3%80%80%E2%80%BB%E3%83%8F%E3%82%A4%E3%83%95%E3%83%B3%E3%82%92%E5%85%A5%E3%82%8C%E3%81%9A%E6%95%B0%E5%AD%97%E3%81%A0%E3%81%91%E3%81%94%E8%A8%98%E5%85%A5%E3%81%8F%E3%81%A0%E3%81%95%E3%81%84%0A%0A%E5%8F%97%E8%AC%9B%E8%80%85%E3%81%AEE%E3%83%A1%E3%83%BC%E3%83%AB%20%E2%80%BB%EF%BC%9A%0A%E3%80%80%E2%80%BB%E5%8F%97%E8%AC%9B%E7%94%A8%E3%81%AEZoom%E3%83%AA%E3%83%B3%E3%82%AF%E3%81%AA%E3%81%A9%E3%80%81%E8%AC%9B%E5%BA%A7%E3%81%AE%E3%81%94%E6%A1%88%E5%86%85%E3%81%AF%E3%81%93%E3%81%A1%E3%82%89%E3%81%AE%E3%82%A2%E3%83%89%E3%83%AC%E3%82%B9%E5%AE%9B%E3%81%AB%E3%81%8A%E9%80%81%E3%82%8A%E3%81%97%E3%81%BE%E3%81%99%E3%80%82%0A%0A(%E4%BB%BB%E6%84%8F)%E3%81%8A%E7%94%B3%E3%81%97%E8%BE%BC%E3%81%BF%E3%81%94%E6%8B%85%E5%BD%93%E8%80%85%E3%81%AE%E3%81%8A%E5%90%8D%E5%89%8D%EF%BC%9A%0A%E3%80%80%E2%80%BB%E5%8F%97%E8%AC%9B%E8%80%85%E3%81%94%E6%9C%AC%E4%BA%BA%E4%BB%A5%E5%A4%96%E3%81%AE%E6%96%B9%EF%BC%88%E4%BA%BA%E4%BA%8B%E3%83%BB%E7%B7%8F%E5%8B%99%E3%81%AE%E3%81%94%E6%8B%85%E5%BD%93%E8%80%85%E6%A7%98%E3%81%AA%E3%81%A9%EF%BC%89%E3%81%8C%E3%81%8A%E7%94%B3%E3%81%97%E8%BE%BC%E3%81%BF%E3%83%BB%E3%81%94%E8%AB%8B%E6%B1%82%E3%81%AE%E7%AA%93%E5%8F%A3%E3%81%A8%E3%81%AA%E3%82%8B%E5%A0%B4%E5%90%88%E3%81%AE%E3%81%BF%E3%81%94%E8%A8%98%E5%85%A5%E3%81%8F%E3%81%A0%E3%81%95%E3%81%84%E3%80%82%0A%0A(%E4%BB%BB%E6%84%8F)%E3%81%8A%E7%94%B3%E3%81%97%E8%BE%BC%E3%81%BF%E3%81%94%E6%8B%85%E5%BD%93%E8%80%85%E3%81%AEE%E3%83%A1%E3%83%BC%E3%83%AB%EF%BC%9A%0A%E3%80%80%E2%80%BB%E3%81%94%E8%A8%98%E5%85%A5%E3%81%84%E3%81%9F%E3%81%A0%E3%81%84%E3%81%9F%E5%A0%B4%E5%90%88%E3%80%81%E3%81%94%E8%AB%8B%E6%B1%82%E7%AD%89%E3%81%AE%E3%81%94%E9%80%A3%E7%B5%A1%E3%81%AF%E3%81%93%E3%81%A1%E3%82%89%E3%81%AE%E3%82%A2%E3%83%89%E3%83%AC%E3%82%B9%E5%AE%9B%E3%81%AB%E5%B7%AE%E3%81%97%E4%B8%8A%E3%81%92%E3%81%BE%E3%81%99%E3%80%82%0A%0A(%E4%BB%BB%E6%84%8F)%E8%AC%9B%E5%BA%A7%E3%81%A7%E7%89%B9%E3%81%AB%E6%89%B1%E3%81%A3%E3%81%A6%E3%81%BB%E3%81%97%E3%81%84%E3%83%86%E3%83%BC%E3%83%9E%E3%82%84%E3%80%81%E7%8F%BE%E5%9C%A8%E3%81%AE%E3%81%8A%E6%82%A9%E3%81%BF%EF%BC%9A%0A%0A%E6%9C%AC%E8%AC%9B%E5%BA%A7%E3%81%AB%E3%81%A4%E3%81%84%E3%81%A6%E3%81%A9%E3%81%93%E3%81%A7%E7%9F%A5%E3%82%8A%E3%81%BE%E3%81%97%E3%81%9F%E3%81%8B%3F%20%E2%80%BB%EF%BC%9A%0A%E3%80%80%E2%96%A1%20WS%20PARTNERS%E3%81%8B%E3%82%89%E3%81%AEE%E3%83%A1%E3%83%BC%E3%83%AB%0A%E3%80%80%E2%96%A1%20%E9%80%B1%E5%88%8AWISE%0A%E3%80%80%E2%96%A1%20%E3%83%91%E3%83%BC%E3%82%BD%E3%83%8D%E3%83%AB%E3%82%B3%E3%83%B3%E3%82%B5%E3%83%AB%E3%82%BF%E3%83%B3%E3%83%88%0A%E3%80%80%E2%96%A1%20NNA%0A%E3%80%80%E2%96%A1%20Google%E3%81%AA%E3%81%A9%E3%81%AE%E6%A4%9C%E7%B4%A2%E3%82%A8%E3%83%B3%E3%82%B8%E3%83%B3%0A%E3%80%80%E2%96%A1%20%E7%A4%BE%E5%86%85%E3%83%BB%E7%A4%BE%E5%A4%96%E3%81%AE%E6%96%B9%E3%81%8B%E3%82%89%E3%81%AE%E6%A1%88%E5%86%85%E3%83%BB%E7%B4%B9%E4%BB%8B%0A%E3%80%80%E2%96%A1%20%E3%81%9D%E3%81%AE%E4%BB%96%EF%BC%9A%0A%0A%E3%82%AD%E3%83%A3%E3%83%B3%E3%82%BB%E3%83%AB%E8%A6%8F%E5%AE%9A%E3%81%B8%E3%81%AE%E5%90%8C%E6%84%8F%20%E2%80%BB%EF%BC%9A%0A%E3%80%80%E2%96%A1%20%E5%90%8C%E6%84%8F%E3%81%97%E3%81%BE%E3%81%99%0A%0A%E3%80%90%E3%81%8A%E7%9F%A5%E3%82%89%E3%81%9B%E9%85%8D%E4%BF%A1%E3%81%AB%E3%81%A4%E3%81%84%E3%81%A6%E3%80%91%0A%E3%80%80%E4%B8%8D%E8%A6%81%E3%81%AE%E5%A0%B4%E5%90%88%E3%81%AE%E3%81%BF%E3%80%8C%E4%B8%8D%E8%A6%81%E3%80%8D%E3%81%A8%E3%81%94%E8%A8%98%E5%85%A5%E3%81%8F%E3%81%A0%E3%81%95%E3%81%84%EF%BC%9A%0A%0A--------------------'
   }
 };
